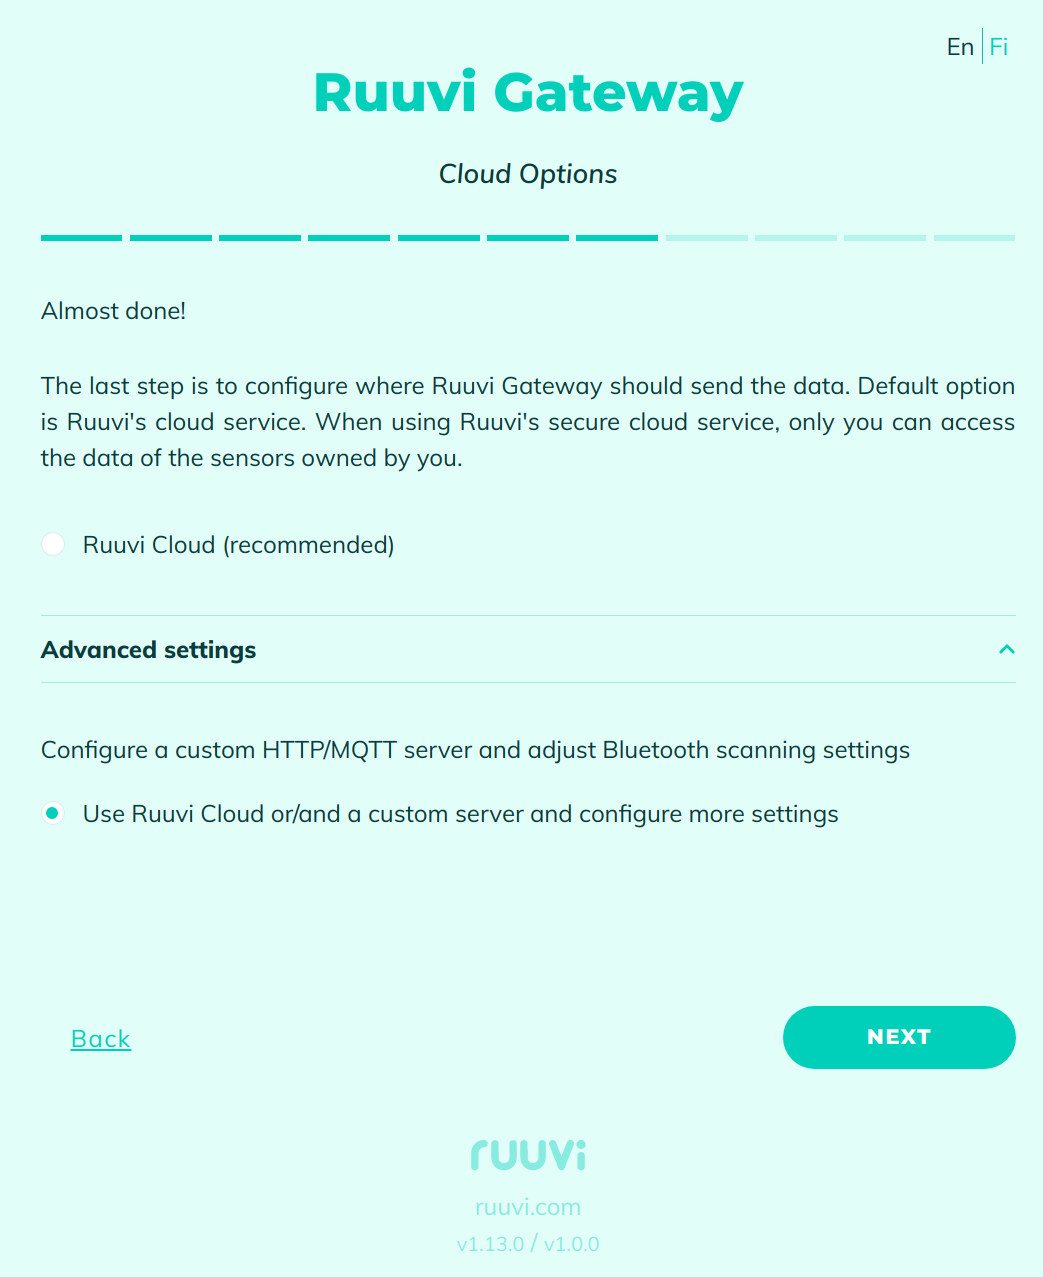
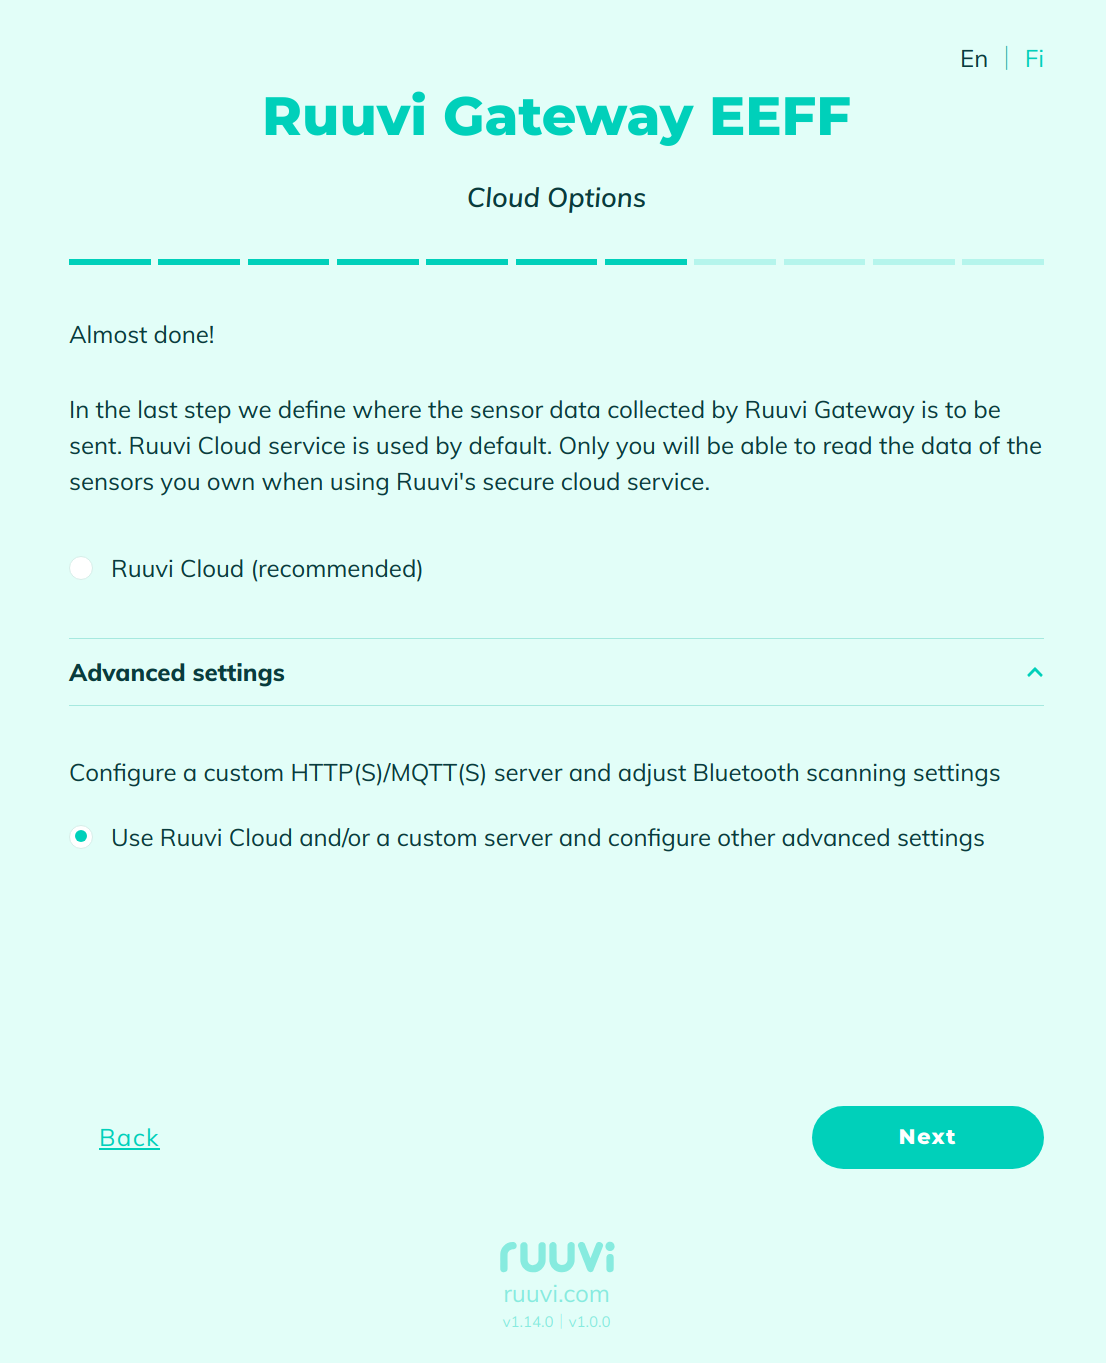
#755: Update Ruuvi Gateway configuration guide for advanced users

diff --git a/docs/gateway_configuration/gateway_configuration.md b/docs/gateway_configuration/gateway_configuration.md
@@ -9,7 +9,7 @@ Firmware version information can be found at the bottom of each page:
 ![start_page](images/start_page.png)
 
 There are two version numbers:
-* Ruuvi Gateway firmware version (v1.13.0). [GitHub repo](https://github.com/ruuvi/ruuvi.gateway_esp.c)
+* Ruuvi Gateway firmware version (v1.14.0). [GitHub repo](https://github.com/ruuvi/ruuvi.gateway_esp.c)
 * Ruuvi Gateway nRF52 co-processor firmware version (v1.0.0) [GitHub repo](https://github.com/ruuvi/ruuvi.gateway_nrf.c)
 
 
@@ -177,6 +177,39 @@ Example of corresponding minimal gw_cfg.json:
 }
 ```
 
+It also supports client authentication via SSL by enabling the upload of a client certificate and 
+its associated private key, ensuring secure and verified client-server communication:
+
+![automatic_configuration_download_client_ssl_cert](images/automatic_configuration_download_client_ssl_cert.png)
+
+Example of corresponding minimal gw_cfg.json:
+```json
+{
+  "remote_cfg_use": true, 
+  "remote_cfg_url": "http://192.168.1.101:7000/", 
+  "remote_cfg_refresh_interval_minutes": 10,
+  "remote_cfg_auth_type": "none",
+  "remote_cfg_use_ssl_client_cert": true
+}
+```
+
+You can use a server SSL Certificate if you want to be independent of 
+public Certificate Authorities (CAs) or if you have deployed a self-signed certificate 
+on the HTTPS server, giving you greater control and customization over your security infrastructure:
+
+![automatic_configuration_download_server_ssl_cert](images/automatic_configuration_download_server_ssl_cert.png)
+
+Example of corresponding minimal gw_cfg.json:
+```json
+{
+  "remote_cfg_use": true, 
+  "remote_cfg_url": "http://192.168.1.101:7000/", 
+  "remote_cfg_refresh_interval_minutes": 10,
+  "remote_cfg_auth_type": "none",
+  "remote_cfg_use_ssl_server_cert": true
+}
+```
+
 ## LAN Access Settings
 
 You can restrict or allow access to your Ruuvi Gateway from the local network.
@@ -244,8 +277,14 @@ Examples:
   
 ## Custom HTTP(S) / MQTT(S) sever
 
-Ruuvi Gateway connects to the Ruuvi Cloud by default. However, you can configure it to use an HTTP
-or MQTT server to route data from your nearby sensors to a custom location instead.
+Ruuvi Gateway connects to the Ruuvi Cloud by default. However, you can configure it to use an 
+HTTP(S) or MQTT server to route data from your nearby sensors to a custom location instead.
+
+Ruuvi Gateway supports client authentication via SSL for HTTPS and MQTTS by enabling the upload 
+of a client certificate and its associated private key.
+
+Also, you can use a server SSL Certificate if you want to be independent of public Certificate 
+Authorities (CAs) or if you have deployed a self-signed certificate on the HTTPS/MQTTS server.
 
 ![cloud_options_advanced_settings](images/cloud_options_advanced_settings.png)
 
@@ -253,8 +292,8 @@ You can enable or disable sending data to Ruuvi Cloud:
 
 ![custom_server_ruuvi_cloud](images/custom_server_ruuvi_cloud.png)
 
-Or configure to send data to your own server via HTTP/HTTPS (sending to both Ruuvi Cloud and your
-own server is not supported yet):
+Or configure to send data to your own server via HTTP/HTTPS (you can configure sending to both 
+Ruuvi Cloud and your own server):
 
 ![custom_server_http](images/custom_server_http.png)
 
@@ -319,3 +358,12 @@ PHY extended payloads.
 
 **Use channel**. Each enabled BLE channel is scanned sequentially for a minimum of 7000 ms per
 channel, for a total of 21000 ms if all 3 channels are enabled. At least one channel must be active.
+
+It is possible to filter out the relayed Bluetooth sensors. 
+You can use whitelist mode if you only want to share data for specific sensors, 
+or blacklist mode if you want to share data from all sensors except the specified list.
+
+![bluetooth_filtering](images/bluetooth_filtering.png)
+
+If you don't see some sensors, try to press on **Refresh list**. If a sensor is offline, 
+you can add it manually by entering its MAC address and pressing on the **Add** button.
